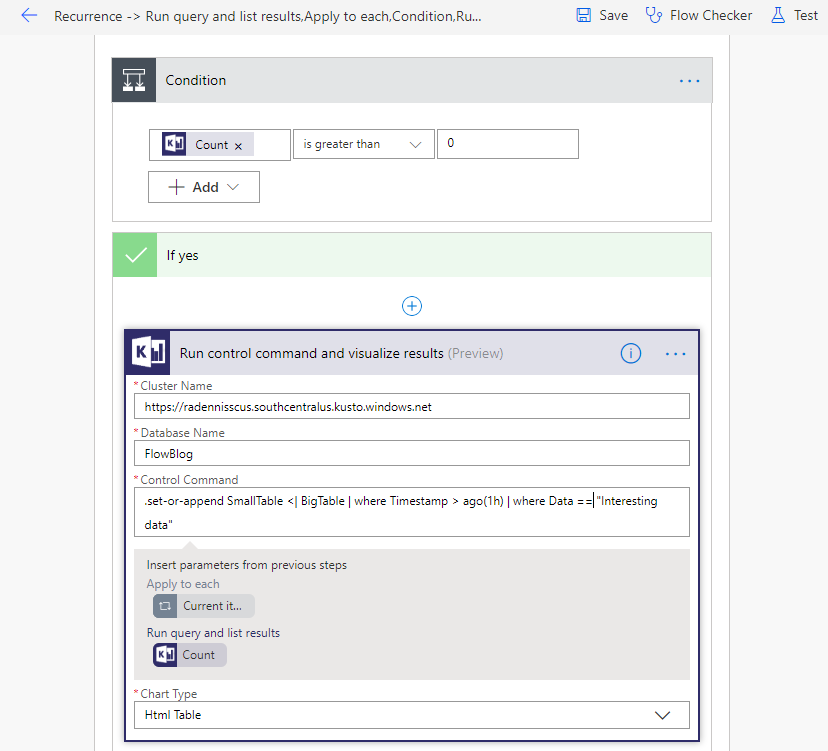
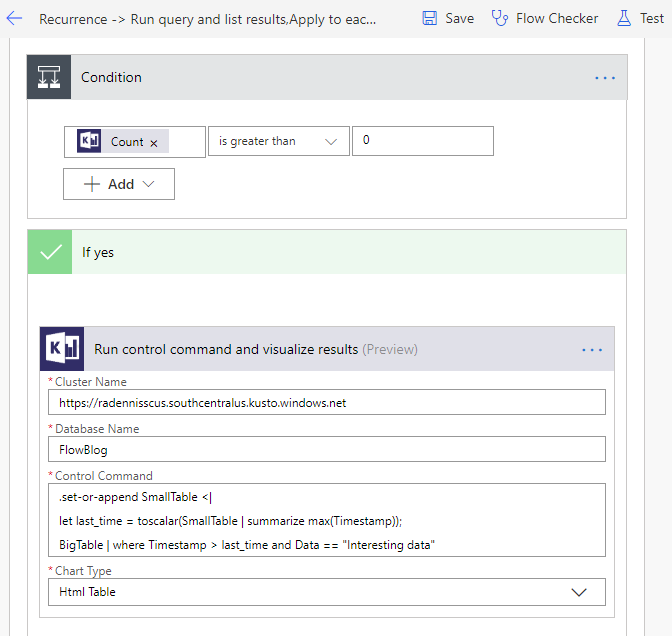
Improve query

Changed region(s): [[0.0, 0.0, 1.0, 1.0]]

diff --git a/blogs/KustoAndFlow.md b/blogs/KustoAndFlow.md
@@ -2,7 +2,7 @@
 
 In this blog you would learn how to automate Kusto queries/control commands.
 
-## Why shoud you use Kusto Flow
+## Why should you use Kusto Flow
 
 I've seen many customers looking for automating their Kusto queries and control commands. Here's a small list of things I've seen customers benefit from Kusto Flow, that you might find useful as well.
 
@@ -42,7 +42,7 @@ For this example, my BigTable contains 23 records
 
 ![Create Flow from Blank](../resources/images/big-table-count.PNG "Create Flow from Blank")
 
-The BigTable includes two kinds of records. "Not interesting data" and "Interesting data". 
+The BigTable includes two kinds of records. "Not interesting data" and "Interesting data".
 
 ![Create Flow from Blank](../resources/images/big-table-data.PNG "Create Flow from Blank")
 
@@ -65,11 +65,12 @@ Then we would add the new "Recurrence" trigger as the first action.
 Then we would run a query on the large table to see whether there is new data ingested into it. 
 For that purpose we would need to use the "Run query and list results" action which runs a query (meaning it should not start with a dot, or else it is a control command) and lists its results in raw way. We need to use that to get the actual number of results.
 
-After adding the action, add the cluster URI, the database name and the table name where the data resides. 
-In the query, I would use the following query which count how many records exist in the last 1 hour.
+After adding the action, add the cluster URI, the database name and the table name where the data resides.
+In the Query section, I would use the following query which counts how many new records exist in the BigTable. The query first checks what is the last time records was ingested to the SmallTable, by getting the maximum time of the records, and then checking if there are newer records in the BigTable.
 
 ```Kusto
- BigTable | where Timestamp > ago(1h) | count
+ let last_time = toscalar(SmallTable | summarize max(Timestamp));
+BigTable | where Timestamp > last_time and Data == "Interesting data" | count
 ```
 
 ![Add recurrence trigger](../resources/images/query-count-bigtable.PNG "Add recurrence trigger")
@@ -89,7 +90,9 @@ In the "If yes" add an action that ingests the interesting data into your SmallT
 This time the query we needs to run is a control command. In that case we need to use the "Run control command and visualize results". We would use the same cluster name and database (for this, you can actually also use a different cluster/database is you want to transfer the data into another cluster) and the following query.
 
 ```Kusto
-.set-or-append SmallTable <| BigTable | where Timestamp > ago(1h) | where Data == "Interesting data"
+.set-or-append SmallTable <|
+let last_time = toscalar(SmallTable | summarize max(Timestamp));
+BigTable | where Timestamp > last_time and Data == "Interesting data"
 ```
 
 Since the "Run control command and visualize results" actually visualizes the results, you would need to pick a chart type, you can just use an "Html Table", we would not use the results of this action.
